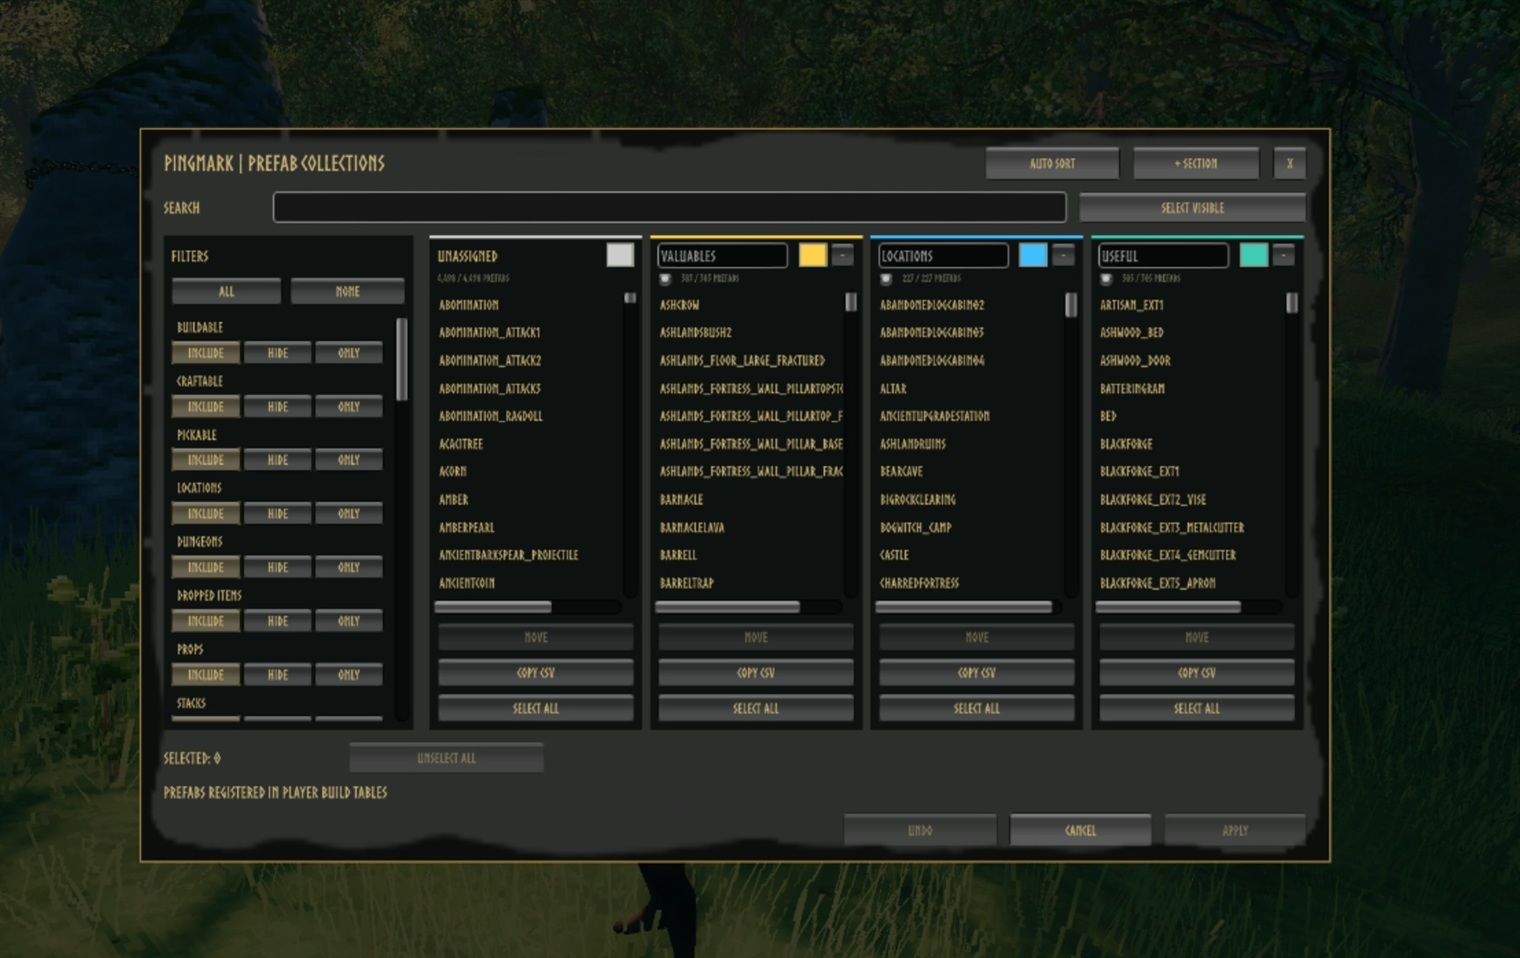
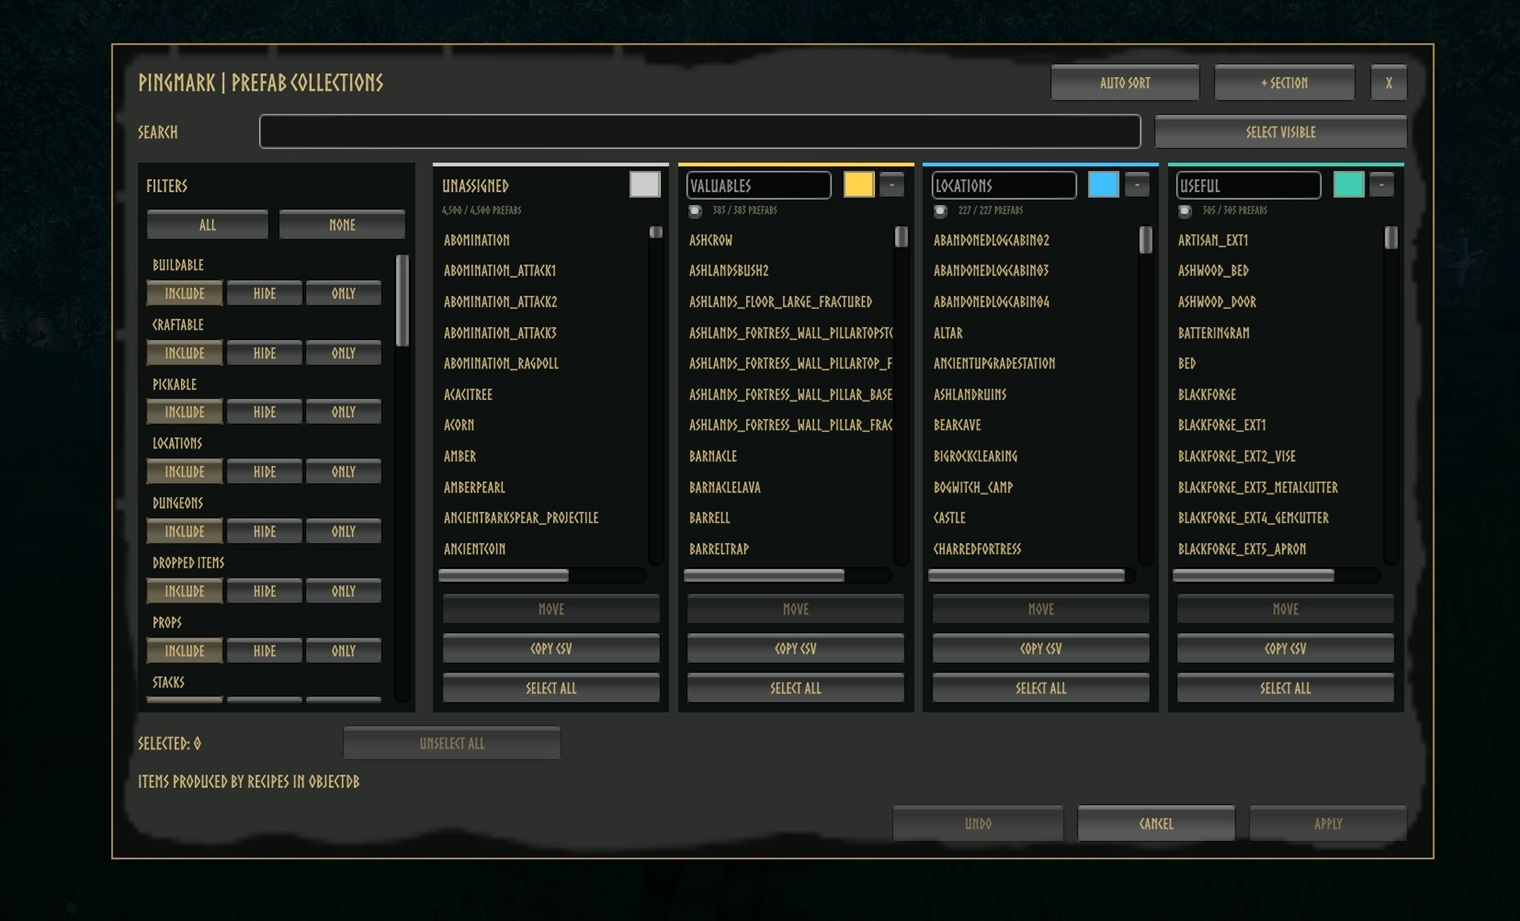
still fixing readme

diff --git a/Settings/Constants.cs b/Settings/Constants.cs
@@ -9,7 +9,7 @@ internal static class Constants
     internal static class Plugin
     {
         internal const string ModName = "PingMark";
-        internal const string ModVersion = "1.0.3";
+        internal const string ModVersion = "1.0.4";
         internal const string Author = "JoksterCube";
         internal const string ModGUID = $"{Author}.{ModName}";
         internal const string Description = "Mark loot, creatures, and locations with named pings, colored outlines, and live distances. Share discoveries with your party.";

diff --git a/README.md b/README.md
@@ -17,6 +17,12 @@ Spot useful loot, point out creatures, and see how far you have to travel. With 
 	<img src="https://raw.githubusercontent.com/JoksterCube/PingMark/refs/heads/main/Screenshots/Boar.jpg" alt="Friendly creature highlights with names and distances" width="323">
 </p>
 
+<p align="center">
+	<img src="https://raw.githubusercontent.com/JoksterCube/PingMark/refs/heads/main/Screenshots/RuneStone.jpg" alt="Runestone marked with a colored outline and distance label" width="330">
+	<img src="https://raw.githubusercontent.com/JoksterCube/PingMark/refs/heads/main/Screenshots/Spawner.jpg" alt="Greydwarf nest marked with a colored outline and distance label" width="281">
+	<img src="https://raw.githubusercontent.com/JoksterCube/PingMark/refs/heads/main/Screenshots/Treasure.jpg" alt="Treasure chest and hostile skeleton highlighted with distinct colors" width="497">
+</p>
+
 **Choose what your party can mark.** The admin menu organizes objects and locations into searchable, color-coded collections.
 
 <p align="center">
@@ -194,5 +200,5 @@ Report bugs or suggest improvements on [GitHub](https://github.com/JoksterCube/P
 ---
 
 **Author:** JoksterCube<br>
-**Version:** 1.0.3<br>
+**Version:** 1.0.4<br>
 **License:** MIT

diff --git a/Thunderstore/CHANGELOG.md b/Thunderstore/CHANGELOG.md
@@ -1,5 +1,6 @@
 | Version | Update Notes |
 |----------|---------------|
+| **1.0.4** | - Added runestone, Greydwarf nest, and treasure screenshots to the README. Updated the admin menu screenshot with a higher-quality source image. |
 | **1.0.3** | - Doubled screenshot preview dimensions for better readability: gameplay images are 440 px tall and the admin menu image is 1520 px wide. |
 | **1.0.2** | - Resized screenshot files for consistent Thunderstore display without relying on HTML sizing attributes. Preserved full-resolution originals. |
 | **1.0.1** | - Fixed oversized gameplay screenshots on Thunderstore by using proportional widths instead of height attributes. |
